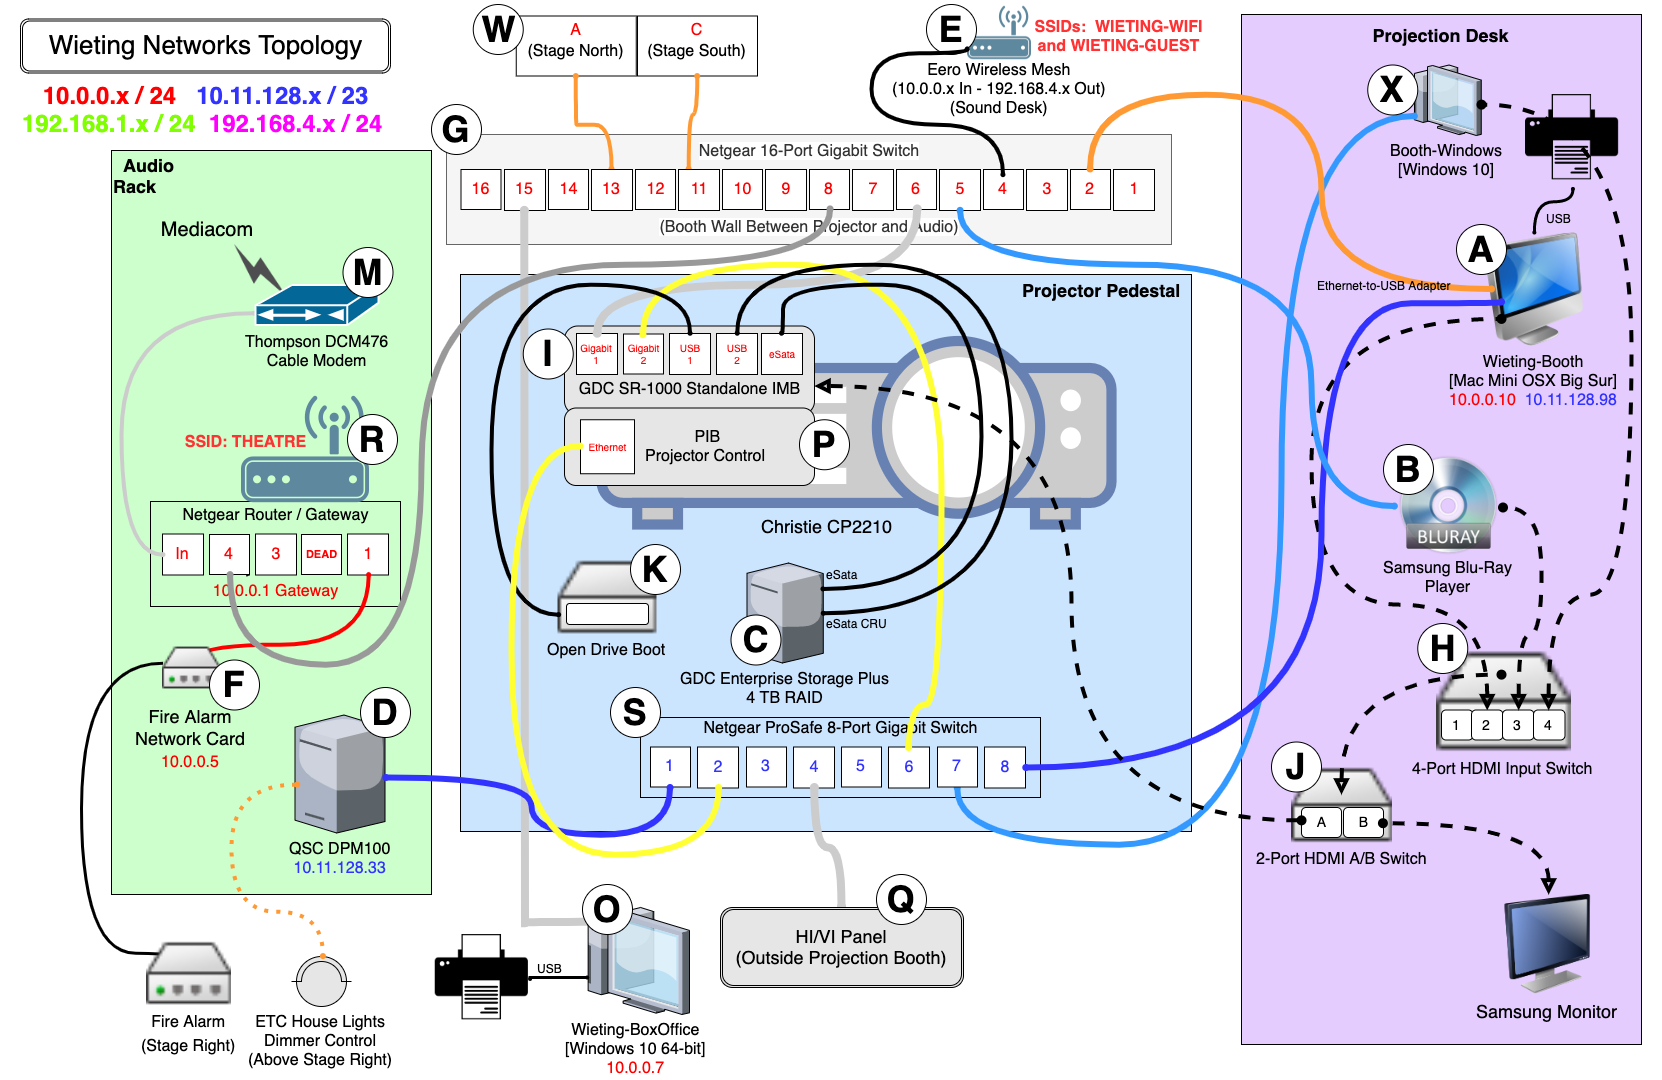
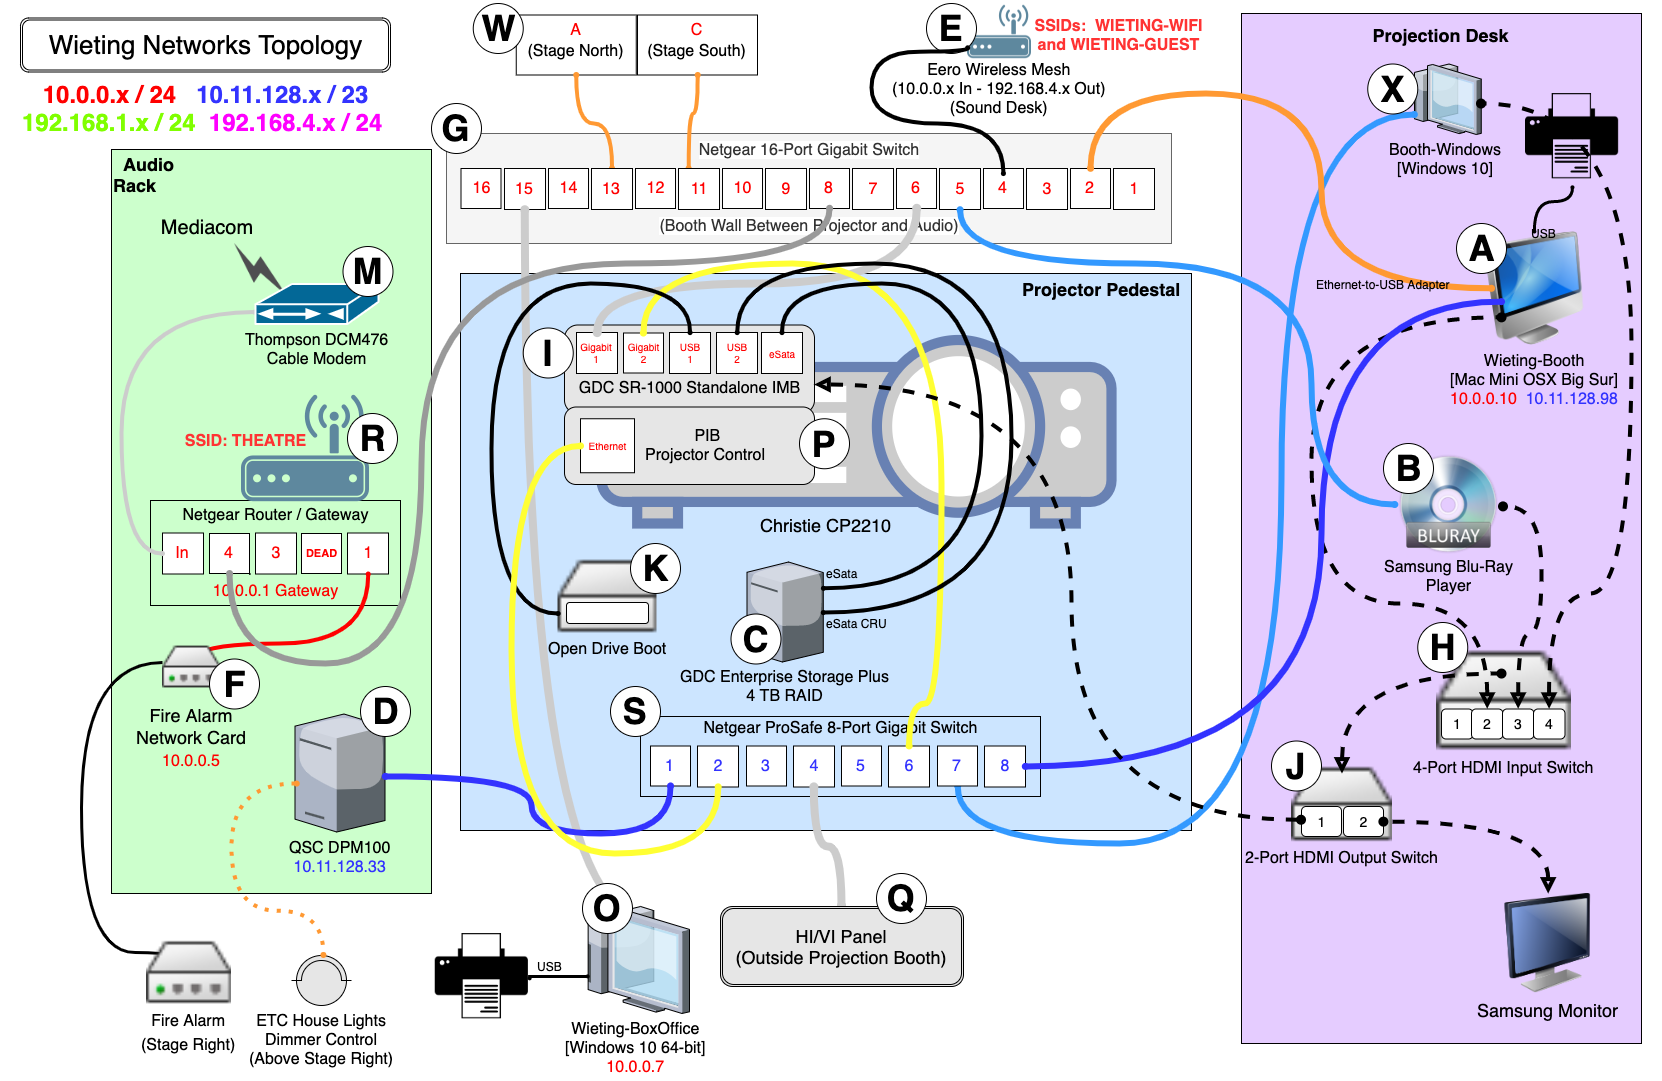
Updated diagram and network table

diff --git a/site/content/management/network.md b/site/content/management/network.md
@@ -2,7 +2,7 @@
 title: Network
 draft: false
 author: Mackenzie McFate
-date: 2021-10-17T12:18:44-05:00
+date: 2021-10-17T20:35:01-05:00
 socialshare: false
 weight: 80
 ---
@@ -51,21 +51,21 @@ Problem:  When the iMac's ethernet connection is active, the iMac cannot access 
 | --- | --- | --- |
 | A | Wieting-Booth iMac | Projection Booth - Projection Desk |
 | B | Samsung Blu-Ray Player | Projection Booth - Projection Desk |
-| C | GDC SX-2000AR Cinema Server | Projection Booth - Projector Pedastal |
+| C | GDC Enterprise Storage Plus 4 TB Content Store | Projection Booth - Projector Pedastal |
 | D | QSC DPM 100 Audio Processor | Projection Booth - Audio Rack |
 | E | Eero Wireless Mesh Gateway | Light Board Desk w/ 2 Satelite Units in the Annex |
 | F | Simplex Grinnell Fire Alarm | Stage North |
 | G | Netgear 16-Port Gigabit Switch | Projection Booth - Top of Audio Rack |
-| H | 4-Port HDMI Switch w/ Optical Audio Input | Projection Booth - Projection Desk |
-| J | JNIOR A-310 Programmable Logic Controller | Projection Booth - Rear of Cinema Pedestal |
-| K | 2-Port Ethernet Punch Box | **To Be Removed** |
-| L | Ubuntu-Trailers Linux Desktop | **To Be Removed** |
+| H | 4-Port HDMI Input Switch | Projection Booth - Projection Desk |
+| I | GDC SR-1000 Standalone IMB (Integrated Media Block) | Projection Booth - Projection Desk |
+| J | 2-Port HDMI Output Switch | Projection Booth - Rear of Cinema Pedestal |
+| K | Open USB Drive Boot | Projection Booth - Cinema Pedastal |
 | M | Thompson DCM476 Cable Modem from Mediacom | Projection Booth - Top of Audio Rack |
 | O | Wieting-BoxOffice Windows Desktop Computer | Box Office - North Desk |
 | P | Christie CP2210 Cinema Projector | Projection Booth - Cinema Pedestal |
 | R | NetGear 4-Port + Wireless Router | Projection Booth - Top of Audio Rack |
 | S | NetGear ProSafe 8-Port Gigabit Switch | Projection Booth - Rear of Cinema Pedestal |
-| W | Three Individual Ethernet Terminations | Stage - North (2) and South (1) Wings |
+| W | Two Individual Ethernet Terminations | Stage - North and South Wings |
 | X | Booth-Windows - Windows 10 Desktop | Projection Booth - Projection Desk |
 {{< /table >}}            
 
